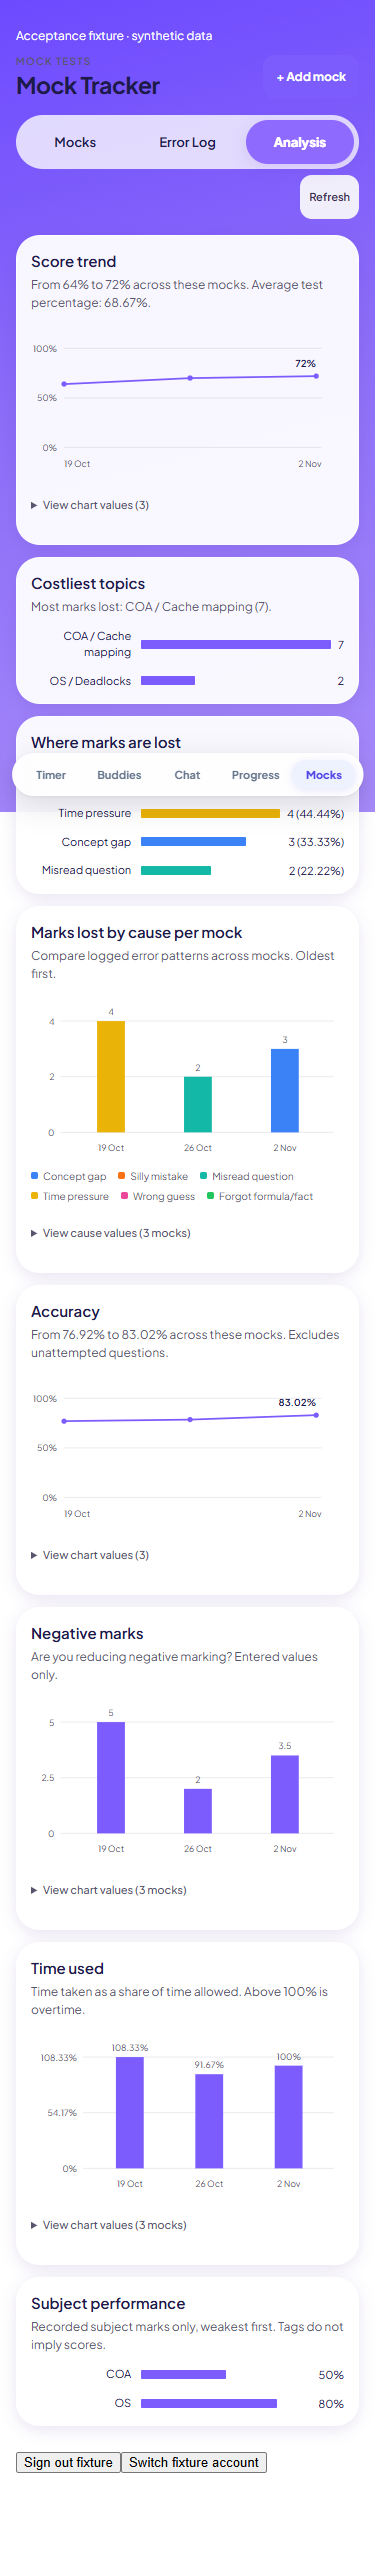
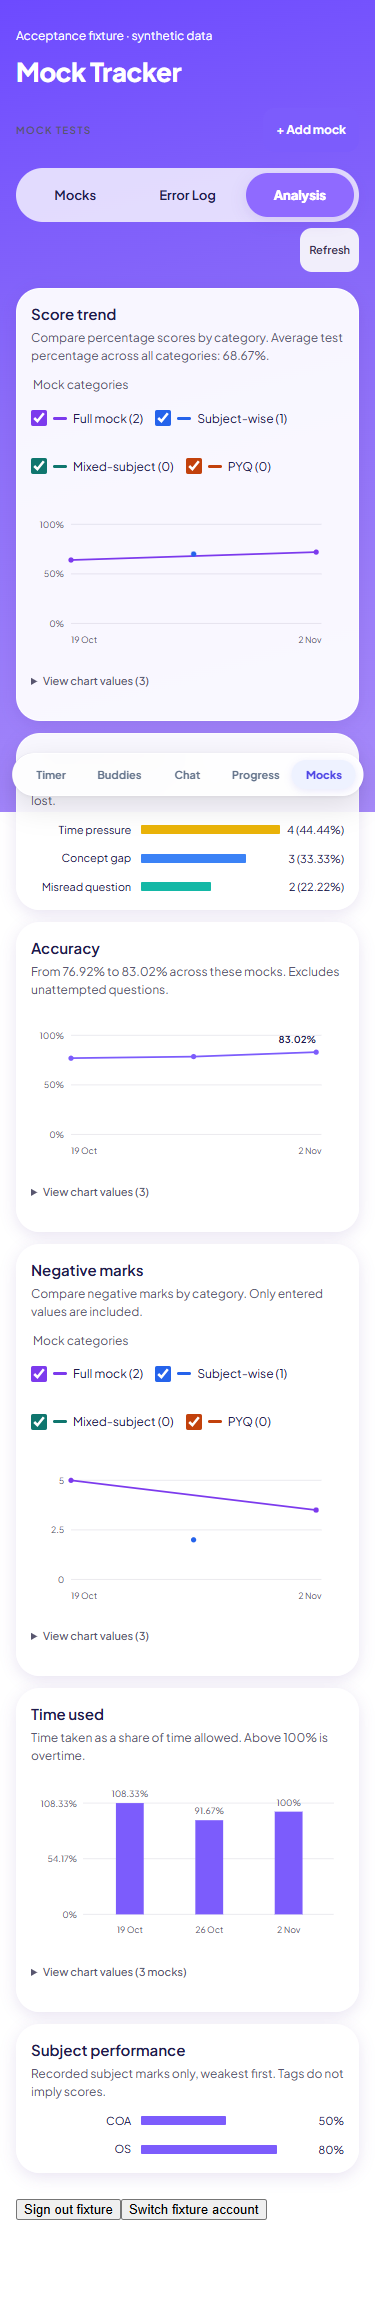
Refine mock summaries and add category trend controls

diff --git a/src/MockAnalysis.jsx b/src/MockAnalysis.jsx
@@ -1,6 +1,6 @@
-import React, { useId } from 'react';
+import React, { useId, useState } from 'react';
 import { formatDateKey } from './dateUtils';
-import { accuracy, CAUSES, formatNumber, formatPercent, scorePercent, timeUsed } from './mockUtils';
+import { accuracy, CAUSES, CATEGORIES, formatNumber, formatPercent, numberOrNull, scorePercent, timeUsed } from './mockUtils';
 
 function Card({ title, description, children }) {
   return <section className="mocktests-card mocktests-panel"><h3>{title}</h3><p className="mocktests-muted">{description}</p>{children}</section>;
@@ -8,25 +8,39 @@ function Card({ title, description, children }) {
 const Empty = ({ children = 'Add the relevant metrics to a mock to see this chart.' }) => <p className="mocktests-chart-empty">{children}</p>;
 const shortDate = date => formatDateKey(date, { day: 'numeric', month: 'short' });
 
-function Line({ rows, metric, label }) {
+const CATEGORY_COLORS = { full: '#7c3aed', subject: '#2563eb', mixed: '#0f766e', pyq: '#c2410c' };
+
+function CategoryTrend({ rows, metric, label, unit = '%' }) {
+  const [selected, setSelected] = useState(() => CATEGORIES.map(([value]) => value));
+  return <>
+    <fieldset className="mocktests-category-toggles"><legend>Mock categories</legend>{CATEGORIES.map(([value, name]) => <label key={value} style={{ '--category-color': CATEGORY_COLORS[value] }}><input type="checkbox" checked={selected.includes(value)} onChange={e => setSelected(current => e.target.checked ? [...current, value] : current.filter(item => item !== value))} /><span className="mocktests-category-swatch" aria-hidden="true" /><span>{name} ({rows.filter(row => row.category === value).length})</span></label>)}</fieldset>
+    {selected.length ? <Line rows={rows} metric={metric} label={label} categories={selected} unit={unit} /> : <Empty>Select at least one mock category to display its trend.</Empty>}
+  </>;
+}
+
+function Line({ rows, metric, label, categories, unit = '%' }) {
   const id = useId();
-  const points = rows.map(row => ({ row, value: metric(row) })).filter(p => p.value != null);
+  const available = rows.map((row, index) => ({ row, index, value: metric(row) })).filter(p => p.value != null);
+  const series = categories ? CATEGORIES.filter(([value]) => categories.includes(value)).map(([value, name]) => ({ key: value, name, color: CATEGORY_COLORS[value], points: available.filter(p => p.row.category === value) })) : [{ key: 'all', name: label, color: 'var(--primary)', points: available }];
+  const points = series.flatMap(group => group.points).sort((a, b) => a.index - b.index);
   if (!points.length) return <Empty />;
   const minimum = Math.min(0, ...points.map(p => p.value));
-  const maximum = Math.max(100, ...points.map(p => p.value));
-  const x = i => 38 + i * 290 / Math.max(1, points.length - 1);
+  const maximum = Math.max(unit === '%' ? 100 : 1, ...points.map(p => p.value));
+  const x = i => 46 + i * 282 / Math.max(1, rows.length - 1);
   const y = value => 142 - (value - minimum) / (maximum - minimum) * 114;
   const last = points.at(-1);
   return <>
     <svg className="mocktests-line" viewBox="0 0 360 172" role="img" aria-labelledby={id}>
       <title id={id}>{label}; values listed below</title>
-      {[minimum, (minimum + maximum) / 2, maximum].map(tick => <g key={tick}><line x1="38" x2="334" y1={y(tick)} y2={y(tick)} stroke="currentColor" opacity=".1" /><text x="30" y={y(tick) + 4} textAnchor="end">{formatNumber(tick)}%</text></g>)}
-      <polyline points={points.map((p, i) => `${x(i)},${y(p.value)}`).join(' ')} fill="none" stroke="var(--primary)" strokeWidth="2" />
-      {points.map((p, i) => <circle key={p.row.id} cx={x(i)} cy={y(p.value)} r="3" fill="var(--primary)"><title>{p.row.name}: {formatPercent(p.value)} ({p.row.test_date})</title></circle>)}
-      <text className="mocktests-point-label" x={x(points.length - 1)} y={y(last.value) - 10} textAnchor={points.length > 1 ? 'end' : 'start'}>{formatPercent(last.value)}</text>
-      <text x="38" y="164">{shortDate(points[0].row.test_date)}</text><text x="334" y="164" textAnchor="end">{points.length > 1 ? shortDate(last.row.test_date) : ''}</text>
+      {[minimum, (minimum + maximum) / 2, maximum].map(tick => <g key={tick}><line x1="46" x2="334" y1={y(tick)} y2={y(tick)} stroke="currentColor" opacity=".1" /><text x="38" y={y(tick) + 4} textAnchor="end">{formatNumber(tick)}{unit}</text></g>)}
+      {series.filter(group => group.points.length).map(group => <g key={group.key} data-category={group.key}>
+        <polyline points={group.points.map(p => `${x(p.index)},${y(p.value)}`).join(' ')} fill="none" stroke={group.color} strokeWidth="2" />
+        {group.points.map(p => <circle key={p.row.id} cx={x(p.index)} cy={y(p.value)} r="3" fill={group.color}><title>{group.name} · {p.row.name}: {formatNumber(p.value)}{unit} ({p.row.test_date})</title></circle>)}
+      </g>)}
+      {!categories && <text className="mocktests-point-label" x={x(last.index)} y={y(last.value) - 10} textAnchor={points.length > 1 ? 'end' : 'start'}>{formatNumber(last.value)}{unit}</text>}
+      <text x="46" y="164">{shortDate(rows[0].test_date)}</text><text x="334" y="164" textAnchor="end">{rows.length > 1 ? shortDate(rows.at(-1).test_date) : ''}</text>
     </svg>
-    <details className="mocktests-chart-data"><summary>View chart values ({points.length})</summary>{points.map(p => <div className="mocktests-bar-label" key={p.row.id}><span>{p.row.test_date} · {p.row.name}</span><strong>{formatPercent(p.value)}</strong></div>)}</details>
+    <details className="mocktests-chart-data"><summary>View chart values ({points.length})</summary>{points.map(p => <div className="mocktests-bar-label" key={p.row.id}><span>{p.row.test_date} · {p.row.name}{categories && ` · ${CATEGORIES.find(([value]) => value === p.row.category)?.[1]}`}</span><strong>{formatNumber(p.value)}{unit}</strong></div>)}</details>
   </>;
 }
 
@@ -72,22 +86,16 @@ function Columns({ rows, unit = '', label, stacked = false, percentAxis = false 
 
 export default function MockAnalysis({ analytics }) {
   const rows = analytics.chronological;
-  const lossRows = analytics.perMock.map(({ test, values }) => ({ key: test.id, label: test.name, date: test.test_date, values }));
-  const hasLoss = lossRows.some(row => row.values.some(c => c.value > 0));
   const causes = analytics.causes.filter(c => c.value > 0).sort((a, b) => b.value - a.value);
   const trend = metric => {
     const values = rows.map(metric).filter(value => value != null);
     return values.length > 1 ? `From ${formatPercent(values[0])} to ${formatPercent(values.at(-1))} across these mocks.` : values.length ? 'Your first recorded result. Add more mocks to see a trend.' : 'Your results over time, oldest first.';
   };
   return <div className="mocktests-panels mocktests-analysis">
-    <Card title="Score trend" description={`${trend(scorePercent)} Average test percentage: ${formatPercent(analytics.average)}.`}><Line rows={rows} metric={scorePercent} label="Score percentage by mock, oldest first" /></Card>
-    <Card title="Costliest topics" description={analytics.topics.length ? `Most marks lost: ${analytics.topics[0].label} (${formatNumber(analytics.topics[0].value)}).` : 'Which concepts cost you the most marks?'}><Bars rows={analytics.topics} empty="Log marks lost on an error to identify costly topics." /></Card>
+    <Card title="Score trend" description={`Compare percentage scores by category. Average test percentage across all categories: ${formatPercent(analytics.average)}.`}><CategoryTrend rows={rows} metric={scorePercent} label="Score percentage by mock category, oldest first" /></Card>
     <Card title="Where marks are lost" description={causes.length ? `${causes[0].name} accounts for ${formatNumber(causes[0].share)}% of logged marks lost.` : 'Error causes as a share of your logged marks lost.'}><Bars rows={causes} shares empty="No positive marks lost recorded yet." /></Card>
-    <Card title="Marks lost by cause per mock" description="Compare logged error patterns across mocks. Oldest first.">
-      {hasLoss ? <Columns rows={lossRows} stacked label="Marks lost by cause per mock" /> : <Empty>Link errors with logged marks lost to mocks to see the breakdown.</Empty>}
-    </Card>
     <Card title="Accuracy" description={`${trend(accuracy)} Excludes unattempted questions.`}><Line rows={rows} metric={accuracy} label="Question accuracy by mock" /></Card>
-    <Card title="Negative marks" description="Are you reducing negative marking? Entered values only."><Columns rows={rows.filter(t => t.negative_marks != null).map(t => ({ key: t.id, date: t.test_date, label: t.name, value: Number(t.negative_marks) }))} label="Negative marks by mock" /></Card>
+    <Card title="Negative marks" description="Compare negative marks by category. Only entered values are included."><CategoryTrend rows={rows} metric={row => numberOrNull(row.negative_marks)} label="Negative marks by mock category, oldest first" unit="" /></Card>
     <Card title="Time used" description="Time taken as a share of time allowed. Above 100% is overtime."><Columns rows={rows.filter(t => timeUsed(t) != null).map(t => ({ key: t.id, date: t.test_date, label: t.name, value: timeUsed(t) }))} unit="%" percentAxis label="Time used by mock" /></Card>
     <Card title="Subject performance" description="Recorded subject marks only, weakest first. Tags do not imply scores."><Bars rows={analytics.subjects} unit="%" empty="Add subject score breakdowns to your mocks. Tags alone do not provide subject scores." /></Card>
   </div>;

diff --git a/tests/browser/mockTracker.spec.js b/tests/browser/mockTracker.spec.js
@@ -90,8 +90,9 @@ test('minimal mock, edit, linked mistake, filters, export, revision, reload and 
   expect(await readFile(await download.path(), 'utf8')).toContain('Deadlocks');
   await page.reload();
   await page.getByRole('tab', { name: 'Analysis', exact: true }).click();
-  await expect(page.locator('.mocktests-panel')).toHaveCount(8);
-  await expect(page.getByText('OS / Deadlocks', { exact: true })).toBeVisible();
+  await expect(page.locator('.mocktests-panel')).toHaveCount(6);
+  await expect(page.getByRole('heading', { name: 'Costliest topics', exact: true })).toHaveCount(0);
+  await expect(page.getByRole('heading', { name: 'Marks lost by cause per mock', exact: true })).toHaveCount(0);
   await expect(page.locator('.mocktests-column-chart').getByText('116.67%', { exact: true }).first()).toBeVisible();
   await page.getByRole('tab', { name: 'Error Log', exact: true }).click();
   await page.getByRole('button', { name: 'Undo revision' }).click();
@@ -128,8 +129,8 @@ test('three tabs fit mobile, landscape, tablet and desktop; capture mobile refer
     expect(await page.evaluate(() => document.documentElement.scrollWidth <= innerWidth)).toBe(true);
     await page.screenshot({ path: `docs/mock-tracker/${slug}-mobile.png`, fullPage: true });
     if (name === 'Analysis') {
-      await expect(page.getByRole('img', { name: /Marks lost by cause per mock/ })).toBeVisible();
-      await expect(page.locator('.mocktests-column-chart')).toHaveCount(3);
+      await expect(page.getByRole('img', { name: /Score percentage by mock category/ })).toBeVisible();
+      await expect(page.locator('.mocktests-column-chart')).toHaveCount(1);
     }
   }
   for (const viewport of [{ width: 320, height: 640 }, { width: 812, height: 375 }, { width: 768, height: 1024 }, { width: 1440, height: 900 }]) {
@@ -162,4 +163,41 @@ test('validation, category filter, account changes and sign out', async ({ page 
   await expect(page.getByRole('heading', { name: 'Full mock 5' })).toHaveCount(0);
   await page.getByRole('button', { name: 'Sign out fixture' }).click();
   await expect(page.getByText('Please sign in to use Mock Tracker.')).toBeVisible();
+});
+
+test('one title, highest raw marks, and independent category lines for score and negative marks', async ({ page }) => {
+  const store = await backend(page, true);
+  store.mock_tests.push(
+    { id: 'mixed-test', user_id: 'alice', created_at: '2026-11-03T12:00:00Z', name: 'Mixed practice', category: 'mixed', test_date: '2026-11-03', marks_obtained: 80, total_marks: 120, negative_marks: 1, subjects: [] },
+    { id: 'pyq-test', user_id: 'alice', created_at: '2026-11-04T12:00:00Z', name: 'PYQ practice', category: 'pyq', test_date: '2026-11-04', marks_obtained: 45, total_marks: 50, negative_marks: null, subjects: [] },
+  );
+  await page.goto('/tests/fixtures/mock-tracker.html');
+  await expect(page.getByRole('heading', { name: 'Mock Tracker', exact: true })).toHaveCount(1);
+  await expect(page.locator('.mocktests-page').getByRole('heading', { name: 'Mock Tracker', exact: true })).toHaveCount(0);
+  const highest = page.locator('.mocktests-stat').filter({ hasText: 'Highest marks of all mocks' });
+  await expect(highest).toContainText('80 / 120');
+  await expect(highest).toContainText('Mixed practice');
+  await expect(page.getByText('Marks lost to errors', { exact: true })).toHaveCount(0);
+  await page.getByRole('tab', { name: 'Analysis', exact: true }).click();
+  const score = page.locator('.mocktests-panel').filter({ has: page.getByRole('heading', { name: 'Score trend', exact: true }) });
+  const negative = page.locator('.mocktests-panel').filter({ has: page.getByRole('heading', { name: 'Negative marks', exact: true }) });
+  await expect(score.getByRole('checkbox')).toHaveCount(4);
+  await expect(negative.getByRole('checkbox')).toHaveCount(4);
+  await expect(score.locator('g[data-category]')).toHaveCount(4);
+  await expect(negative.locator('g[data-category]')).toHaveCount(3); // Missing PYQ negative marks stays missing.
+  await score.getByRole('checkbox', { name: /Full mock/ }).uncheck();
+  await expect(score.locator('g[data-category="full"]')).toHaveCount(0);
+  await expect(negative.locator('g[data-category="full"]')).toHaveCount(1);
+  await negative.getByRole('checkbox', { name: /Subject-wise/ }).uncheck();
+  await expect(negative.locator('g[data-category="subject"]')).toHaveCount(0);
+  await expect(score.locator('g[data-category="subject"]')).toHaveCount(1);
+  for (const checkbox of await score.getByRole('checkbox').all()) await checkbox.uncheck();
+  await expect(score.getByText('Select at least one mock category to display its trend.')).toBeVisible();
+  await score.getByRole('checkbox', { name: /PYQ/ }).check();
+  await expect(score.locator('g[data-category]')).toHaveCount(1);
+  await expect(score.locator('g[data-category="pyq"] circle')).toHaveCount(1);
+  for (const checkbox of await negative.getByRole('checkbox').all()) await checkbox.uncheck();
+  await negative.getByRole('checkbox', { name: /PYQ/ }).check();
+  await expect(negative.getByText('Add the relevant metrics to a mock to see this chart.')).toBeVisible();
+  expect(await page.evaluate(() => document.documentElement.scrollWidth <= innerWidth)).toBe(true);
 });

diff --git a/src/MockTests.jsx b/src/MockTests.jsx
@@ -96,7 +96,7 @@ function Workspace({ user }) {
   const stat = (label, value, note) => <article className="mocktests-stat"><span>{label}</span><strong>{value}</strong><small>{note}</small></article>;
   const tabIndex = TABS.indexOf(tab);
   return <main className="mocktests-page">
-    <header className="mocktests-heading"><div><p className="mocktests-eyebrow">MOCK TESTS</p><h2>Mock Tracker</h2></div><button ref={addButton} type="button" className="mocktests-button mocktests-button-primary" disabled={loading || saving} onClick={() => openEditor('mock')}>+ Add mock</button></header>
+    <header className="mocktests-heading"><p className="mocktests-eyebrow">MOCK TESTS</p><button ref={addButton} type="button" className="mocktests-button mocktests-button-primary" disabled={loading || saving} onClick={() => openEditor('mock')}>+ Add mock</button></header>
     <div className="mocktests-tabs" role="tablist" aria-label="Mock Tracker">{TABS.map((name, i) => <button key={name} id={`mock-tab-${i}`} role="tab" aria-selected={tab === name} aria-controls={`mock-panel-${i}`} tabIndex={tab === name ? 0 : -1} onClick={() => { setTab(name); setEditor(null); setDeleting(null); }} onKeyDown={event => {
       const index = event.key === 'ArrowRight' ? (i + 1) % 3 : event.key === 'ArrowLeft' ? (i + 2) % 3 : event.key === 'Home' ? 0 : event.key === 'End' ? 2 : null;
       if (index != null) { event.preventDefault(); setTab(TABS[index]); setEditor(null); setDeleting(null); document.getElementById(`mock-tab-${index}`)?.focus(); }
@@ -112,7 +112,7 @@ function Workspace({ user }) {
           {stat('Mocks taken', tests.length, profileId ? 'In this profile' : 'Across your mocks')}
           {stat('Latest score', formatPercent(analytics.latest ? scorePercent(analytics.latest) : null), analytics.latest ? `${formatNumber(analytics.latest.marks_obtained)} / ${formatNumber(analytics.latest.total_marks)}` : 'No mocks yet')}
           {stat(`Average of last ${analytics.recentCount || 3}`, formatPercent(analytics.recentAverage), analytics.recentCount < 3 ? `Based on ${analytics.recentCount} available mocks` : 'Mean of test percentages')}
-          {stat('Marks lost to errors', formatNumber(analytics.loggedLoss), `${errors.filter(e => e.marks_lost != null).length} errors with recorded loss`)}
+          {stat('Highest marks of all mocks', analytics.highestMarks ? `${formatNumber(analytics.highestMarks.marks_obtained)} / ${formatNumber(analytics.highestMarks.total_marks)}` : '—', analytics.highestMarks?.name || 'No mocks yet')}
         </div><section className="mocktests-card mocktests-panel"><div className="mocktests-section-title"><h3>All mocks</h3><span>{mocks.length} mocks</span></div>
           <Field id="mock-category-filter" label="Filter category"><select value={category} onChange={e => setCategory(e.target.value)}><option value="">All categories</option>{CATEGORIES.map(([id, name]) => <option key={id} value={id}>{name}</option>)}</select></Field>
           {!mocks.length && <div className="mocktests-empty"><h3>{tests.length ? 'No mocks in this category' : 'Your next mock starts here'}</h3><p>Record a mock, capture what went wrong, and watch your progress over time.</p></div>}

diff --git a/src/mockUtils.js b/src/mockUtils.js
@@ -64,6 +64,7 @@ export function mockPayload(form, profileId) {
 export function analyseMocks(tests, errors, subjects) {
   const ordered = [...tests].sort(newestFirst);
   const chronological = [...ordered].reverse();
+  const highestMarks = ordered.reduce((best, row) => !best || Number(row.marks_obtained) > Number(best.marks_obtained) ? row : best, null);
   const mean = rows => rows.length ? rows.reduce((sum, row) => sum + scorePercent(row), 0) / rows.length : null;
   const loggedLoss = errors.reduce((sum, row) => sum + (numberOrNull(row.marks_lost) || 0), 0);
   const topics = new Map();
@@ -85,7 +86,7 @@ export function analyseMocks(tests, errors, subjects) {
     subjectMap.set(key, group);
   }
   return {
-    ordered, chronological, latest: ordered[0], recentCount: Math.min(3, ordered.length), recentAverage: mean(ordered.slice(0, 3)), average: mean(ordered), loggedLoss,
+    ordered, chronological, latest: ordered[0], highestMarks, recentCount: Math.min(3, ordered.length), recentAverage: mean(ordered.slice(0, 3)), average: mean(ordered), loggedLoss,
     topics: [...topics.values()].sort((a, b) => b.value - a.value),
     causes: causes.map(c => ({ ...c, label: c.name, share: percent(c.value, loggedLoss) })),
     subjects: [...subjectMap.values()].map(g => ({ ...g, value: percent(g.marks, g.maximum) })).sort((a, b) => a.value - b.value),

diff --git a/tests/fixtures/mock-tracker.jsx b/tests/fixtures/mock-tracker.jsx
@@ -5,6 +5,6 @@ import '../../src/global.css';
 
 function Fixture() {
   const [user, setUser] = useState({ id: 'alice' });
-  return <div className="app-shell"><p style={{ color: '#fff', fontSize: 12 }}>Acceptance fixture · synthetic data</p><MockTests user={user} /><button onClick={() => setUser(null)}>Sign out fixture</button><button onClick={() => setUser({ id: 'bob' })}>Switch fixture account</button><nav className="bottom-nav">{['Timer', 'Buddies', 'Chat', 'Progress', 'Mocks'].map(name => <button className={`nav-item${name === 'Mocks' ? ' active' : ''}`} key={name}>{name}</button>)}</nav></div>;
+  return <div className="app-shell"><p style={{ color: '#fff', fontSize: 12 }}>Acceptance fixture · synthetic data</p><header className="page-header"><h1 className="page-title">Mock Tracker</h1></header><MockTests user={user} /><button onClick={() => setUser(null)}>Sign out fixture</button><button onClick={() => setUser({ id: 'bob' })}>Switch fixture account</button><nav className="bottom-nav">{['Timer', 'Buddies', 'Chat', 'Progress', 'Mocks'].map(name => <button className={`nav-item${name === 'Mocks' ? ' active' : ''}`} key={name}>{name}</button>)}</nav></div>;
 }
 createRoot(document.getElementById('root')).render(<Fixture />);

diff --git a/tests/mockUtils.test.js b/tests/mockUtils.test.js
@@ -62,6 +62,13 @@ test('empty analytics show no fabricated results', () => {
   assert.equal(result.average, null); assert.equal(result.recentAverage, null);
   assert.equal(result.latest, undefined); assert.equal(result.loggedLoss, 0);
   assert.deepEqual(result.subjects, []); assert.deepEqual(result.topics, []);
+  assert.equal(result.highestMarks, null);
+});
+test('highest marks uses raw obtained marks, with newest breaking ties', () => {
+  const result = analyseMocks([mock('a', '2026-11-01', 45, 50), mock('b', '2026-11-02', 80, 120), mock('c', '2026-11-03', 80, 100)], [], []);
+  assert.equal(result.highestMarks.id, 'c');
+  assert.equal(result.highestMarks.marks_obtained, 80);
+  assert.equal(analyseMocks([mock('a', '2026-11-01', -5), mock('b', '2026-11-02', -2)], [], []).highestMarks.id, 'b');
 });
 test('error validation and CSV handle decimals, multiline quotes, optional links and spreadsheet formulas', () => {
   assert.deepEqual(validateError({ topic: 'Cache', error_type: 'Concept gap', marks_lost: '1.5', question_number: '' }), {});

diff --git a/src/MockTests.css b/src/MockTests.css
@@ -92,6 +92,11 @@
 .mocktests-legend { display: flex; flex-wrap: wrap; gap: 8px 12px; font-size: 10px; color: var(--mock-muted); }
 .mocktests-legend span { display: inline-flex; align-items: center; gap: 5px; }
 .mocktests-legend i { width: 7px; height: 7px; border-radius: 2px; }
+.mocktests-category-toggles { display: flex; flex-wrap: wrap; gap: 4px 12px; min-width: 0; margin: 0; padding: 0; border: 0; }
+.mocktests-category-toggles legend { margin-bottom: 4px; font-size: 12px; color: var(--mock-muted); }
+.mocktests-category-toggles label { display: inline-flex; align-items: center; gap: 6px; min-height: 44px; font-size: 12px; cursor: pointer; }
+.mocktests-category-toggles input { width: 16px; height: 16px; margin: 0; accent-color: var(--category-color); }
+.mocktests-category-swatch { width: 14px; height: 3px; background: var(--category-color); border-radius: 2px; }
 .mocktests-form-region { scroll-margin-top: 16px; }
 .mocktests-form { max-width: 720px; }
 .mocktests-confirm p { font-size: 13px; line-height: 1.6; }

diff --git a/docs/mock-tracker/README.md b/docs/mock-tracker/README.md
@@ -4,6 +4,8 @@ Integrated into the existing authenticated Study Tracker shell as the fifth bott
 
 The layout follows the PDF references: a horizontally scrollable mock table, compact mistake rows, and vertically stacked analysis cards with line, horizontal-bar and vertical stacked-column charts. Styling follows the other Study Tracker pages: the shared light glass cards, purple accents, rounded controls, font and background.
 
+The Mocks summary shows highest obtained marks (with its maximum and test name) in place of marks lost. Score trend and negative-mark trends each have independent category checkboxes and separate coloured lines for Full mock, Subject-wise, Mixed-subject and PYQ. Costliest topics and per-mock cause breakdowns are omitted from Analysis. Only the app shell displays the Mock Tracker title.
+
 Known reference gap: page 11's screenshot includes manually adding/removing topic tags and tapping tags to cycle weak/shaky/strong status. This implementation derives static topic tags from mistake logs; those manual tag controls are not implemented yet.
 
 ## Database setup
@@ -68,6 +70,6 @@ Browser tests use the installed Microsoft Edge in headless mode (`PLAYWRIGHT_CHA
 4. Check calculations against saved records, delete confirmation/cascades, sign-out, and all three tabs on phone/tablet.
 5. Owner reviews the preview and explicitly approves before merge to main or production deployment.
 
-Verified locally: 9 calculation/PostgreSQL tests and 3 browser acceptance tests pass; production build succeeds. Mobile screenshots above were visually inspected. Live Supabase/Google-account and hosted preview acceptance require a confirmed test project and remain separate release checks.
+Verified locally: 10 calculation/PostgreSQL tests and 4 browser acceptance tests pass; production build succeeds. Mobile screenshots above were visually inspected. Live Supabase/Google-account and hosted preview acceptance require a confirmed test project and remain separate release checks.
 
 Existing toolchain observations: the production build reports the application's existing bundle-size warning (about 521 kB minified). `npm audit` reports 4 advisories in the existing development dependency chains (`concurrently`/`shell-quote`, `source-map-js`, and Vite). Dependency upgrades are outside this feature change.
